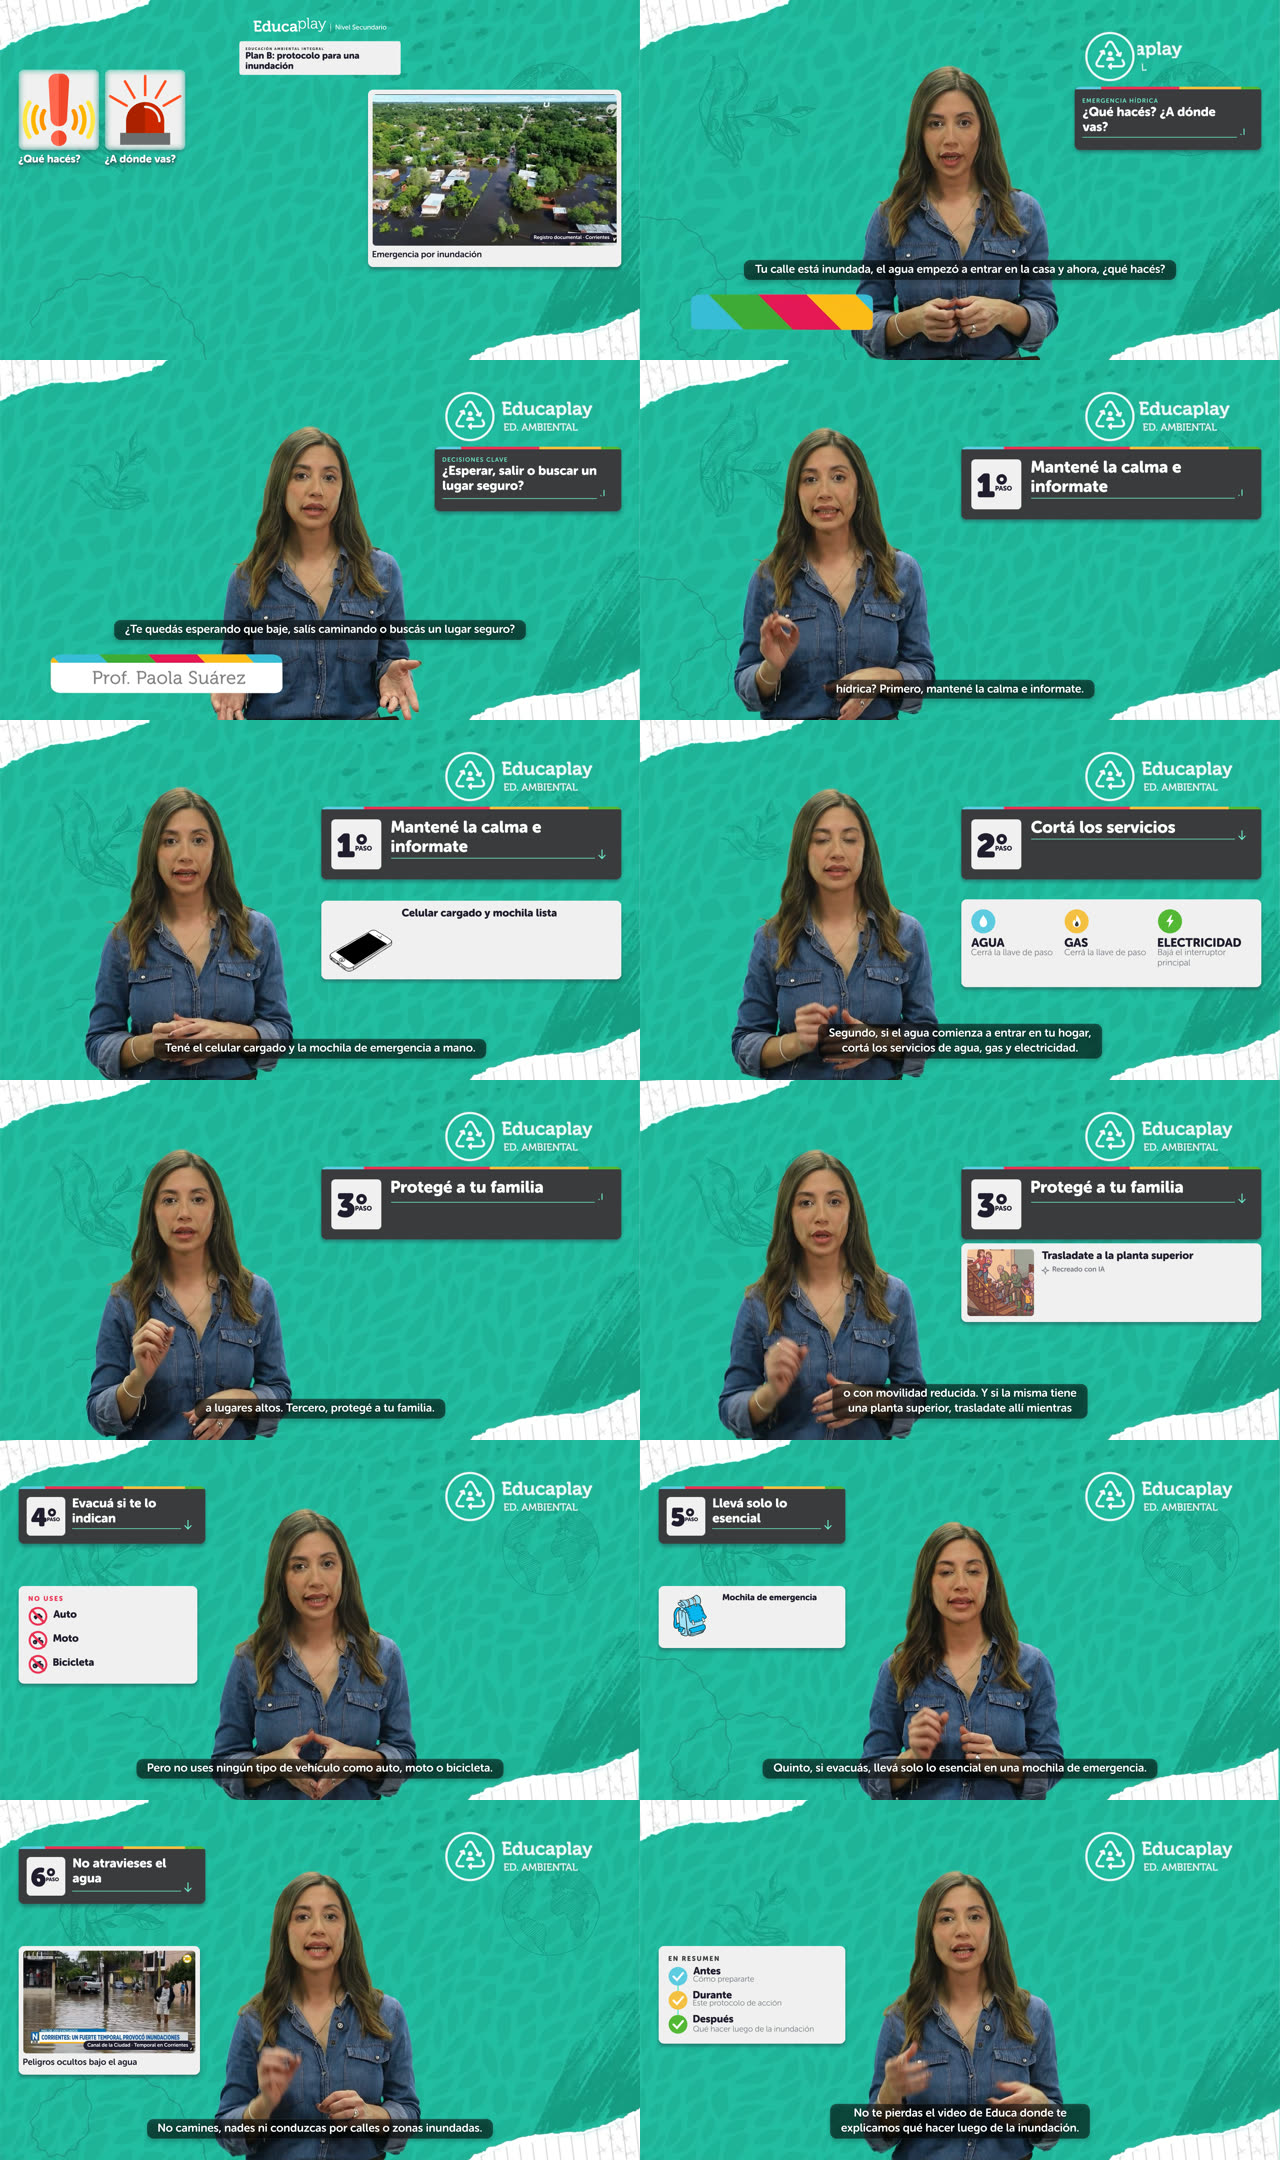
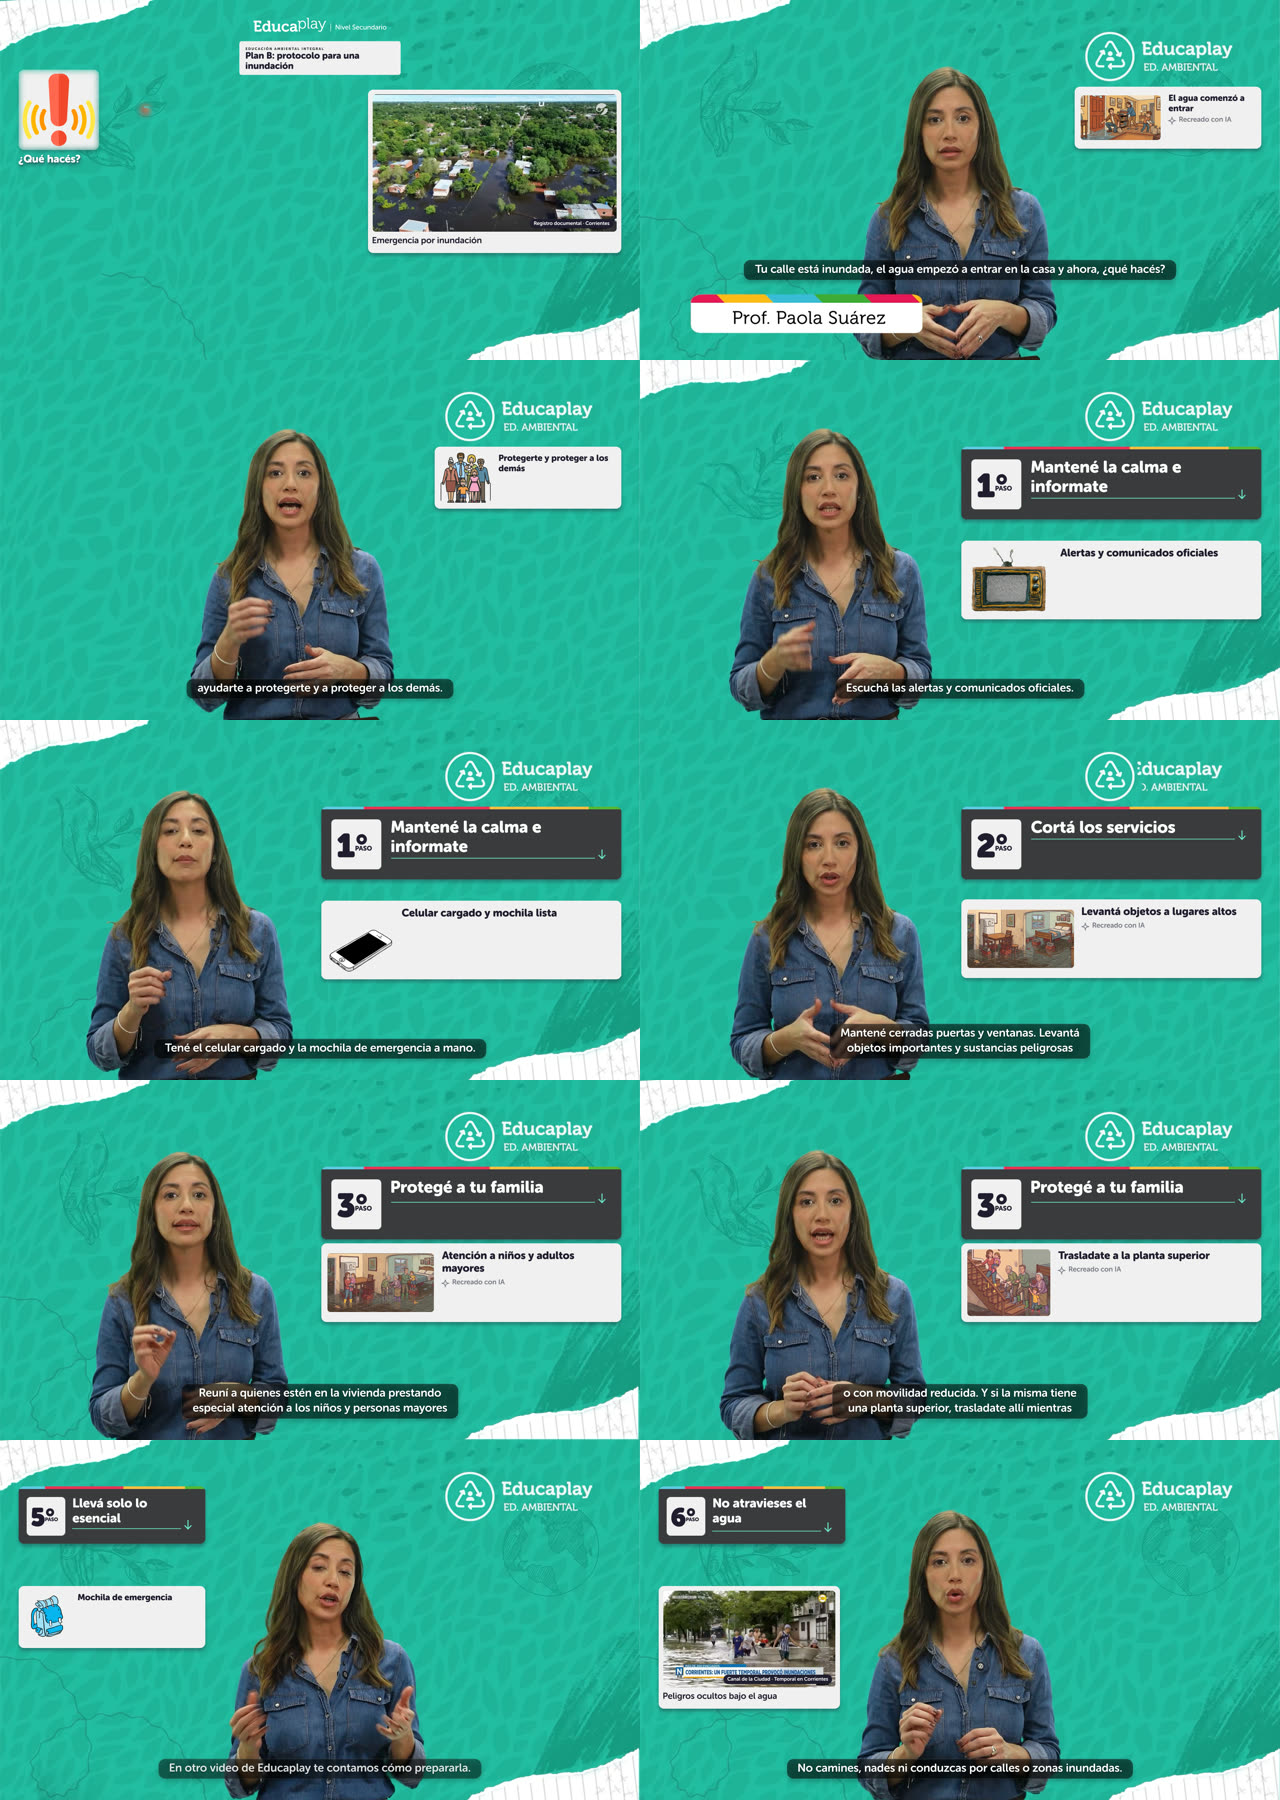
Los recursos no se recortan: la tarjeta toma la proporción de la imagen
Pedido de Isaac: que no se corte la cabeza de nadie ni un detalle relevante.
- fitFrame: el recuadro de cada foto, ilustración o video toma su proporción
  dentro del espacio disponible; entra entero (contain), sin franjas.
- Fila: alto de siempre y hasta 1,6× de ancho para las apaisadas. Recursos grandes:
  hasta 60 % del ancho y el alto de la caja. Tarjeta de medio: centrada, con el alto
  real de la imagen.
- Sin Ken Burns (el zoom se come los bordes). fit: 'cover' sólo si se declara.

diff --git a/ae/build-episode.jsx b/ae/build-episode.jsx
@@ -637,7 +637,25 @@ function buildEpisode() {
   }
 
   /** Medio (foto/video/gif) recortado en un rect redondeado con track matte. */
-  function mediaInCard(comp, rel, x, y, w, h, fit, t0, kenBurns) {
+  /**
+   * Recuadro con la proporción del medio, lo más grande posible dentro de
+   * maxW × maxH. Los recursos NO se recortan (pedido de Isaac, 30/9/2026): no se
+   * corta la cabeza de nadie ni un detalle del borde. La tarjeta se adapta a la
+   * imagen, no la imagen a la tarjeta.
+   */
+  function fitFrame(rel, maxW, maxH) {
+    var item = footage(rel);
+    var k = Math.min(maxW / item.width, maxH / item.height);
+    return {w: Math.round(item.width * k), h: Math.round(item.height * k)};
+  }
+
+  /**
+   * Medio recortado al rect redondeado con un track matte. Por defecto entra
+   * COMPLETO (contain): el que llama ya le da un recuadro con su proporción
+   * (fitFrame). `cover` sólo si el data.ts lo declara a propósito. Sin Ken
+   * Burns: el zoom siempre se come los bordes.
+   */
+  function mediaInCard(comp, rel, x, y, w, h, fit) {
     var item = footage(rel);
     var l = comp.layers.add(item);
     l.name = 'MEDIO · ' + rel.replace('assets/', '');
@@ -649,12 +667,10 @@ function buildEpisode() {
     }
     var cover = Math.max(w / item.width, h / item.height) * 100;
     var contain = Math.min(w / item.width, h / item.height) * 100;
-    var s = fit === 'contain' ? contain : cover;
+    var s = fit === 'cover' ? cover : contain;
     var t = l.property('ADBE Transform Group');
     t.property('ADBE Position').setValue([x + w / 2, y + h / 2]);
-    var kb0 = 1.02, kb1 = 1.08;
-    if (kenBurns) keys(t.property('ADBE Scale'), [t0, comp.duration], [[s * kb0, s * kb0], [s * kb1, s * kb1]]);
-    else t.property('ADBE Scale').setValue([s, s]);
+    t.property('ADBE Scale').setValue([s, s]);
 
     var matte = newShapeLayer(comp, 'MATTE · ' + l.name);
     addRect(matte, x, y, w, h, RADIUS - 6, [1, 1, 1]);
@@ -972,20 +988,19 @@ function buildEpisode() {
     var wide = box.width >= 800;
     var P = 18;
     var w = box.width;
-    // Miniatura cuadrada (la fila de la web) o, con GRANDES, la imagen a ~60 %
-    // del ancho (50 % en la caja angosta, para que el título no quede en una
-    // columna de menos de ~170 px) y todo el alto que da la caja del motor.
-    var TW = wide ? 200 : 150, TH = TW;
+    // Espacio para la imagen: el cuadrado de la fila de la web o, con GRANDES,
+    // ~60 % del ancho (50 % en la caja angosta, para que el título no quede en
+    // una columna de menos de ~170 px) y todo el alto que da la caja del motor.
+    // Dentro de ese espacio la imagen entra ENTERA, con su proporción.
+    // En la fila normal el alto es el de siempre (200/150) y una imagen
+    // apaisada puede ensancharse hasta 1,6 veces ese alto: entera y sin achicarse.
+    var maxH = wide ? 200 : 150, maxW = Math.round(maxH * 1.6);
     if (GRANDES) {
-      TW = Math.round(w * (wide ? 0.6 : 0.5));
-      TH = Math.min(box.height - P * 2, Math.round(TW * 0.8));
+      maxW = Math.round(w * (wide ? 0.6 : 0.5));
+      maxH = box.height - P * 2;
     }
-    var h = TH + P * 2;
-    card(comp, 0, 0, w, h);
-    var thumb = mediaInCard(comp, b.src, P, P, TW, TH, kind === 'gif' ? 'contain' : 'cover', 0, kind === 'photo');
-    // Modo vivo: por partes. Tarjeta, miniatura, título y metadatos.
-    revealMedia(thumb, P, P, TW, TH, sec(4));
-    var tx = P + TW + 24, tw = w - tx - P;
+    var f = b.fit === 'cover' ? {w: maxW, h: maxH} : fitFrame(b.src, maxW, maxH);
+    var tx = P + f.w + 24, tw = w - tx - P;
     var ty = P + 6;
     var tSize = GRANDES ? (wide ? 36 : 28) : (wide ? 32 : 26);
     var tLead = GRANDES ? (wide ? 42 : 33) : (wide ? 38 : 31);
@@ -1005,6 +1020,15 @@ function buildEpisode() {
       fadeIn(mt.layer, mt0, sec(10), 10);
       ty += mt.h + 10;
     }
+    // La fila normal conserva su alto (236 px); la grande mide lo que la imagen
+    // o el texto, lo que sea más alto. La imagen va centrada en vertical.
+    var inner = GRANDES ? Math.max(f.h, ty - P) : maxH;
+    var h = inner + P * 2;
+    var iy = P + Math.round((inner - f.h) / 2);
+    card(comp, 0, 0, w, h);
+    var thumb = mediaInCard(comp, b.src, P, iy, f.w, f.h, b.fit);
+    // Modo vivo: por partes. Tarjeta, imagen, título y metadatos.
+    revealMedia(thumb, P, iy, f.w, f.h, sec(4));
     return Math.max(h, ty + P);
   }
 
@@ -1023,18 +1047,23 @@ function buildEpisode() {
     var inner = 14;
     var mw = w - inner * 2;
     var mx = x + inner;
-    var mh = Math.min(box.height - inner * 2 - capH, Math.round(mw * 0.62));
+    // El medio entra entero: el recuadro toma su proporción dentro del espacio
+    // de la tarjeta y se centra a lo ancho. La tarjeta mide lo que mide él.
+    var maxMh = box.height - inner * 2 - capH;
+    var f = b.fit === 'cover' ? {w: mw, h: Math.min(maxMh, Math.round(mw * 0.62))} : fitFrame(b.src, mw, maxMh);
+    var fx = mx + Math.round((mw - f.w) / 2);
+    var mh = f.h;
     var h = inner + mh + (capText ? capH : inner);
 
     card(comp, x, 0, w, h);
-    revealMedia(mediaInCard(comp, b.src, mx, inner, mw, mh, b.fit || (kind === 'gif' ? 'contain' : 'cover'), 0, kind === 'photo'), mx, inner, mw, mh, sec(4));
+    revealMedia(mediaInCard(comp, b.src, fx, inner, f.w, mh, b.fit), fx, inner, f.w, mh, sec(4));
     if (capText) {
       var cap = text(comp, capText, mx, inner + mh + 16, {
         name: 'PIE', font: FONTS.body, size: 26, color: hex(PAL.ink), maxW: mw,
       });
       revealChars(cap.layer, sec(VIVO ? 14 : 10), sec(14), true);
     }
-    if (b.credit) creditPill(comp, b.credit, mx + mw, inner + mh, sec(VIVO ? 20 : 14));
+    if (b.credit) creditPill(comp, b.credit, fx + f.w, inner + mh, sec(VIVO ? 20 : 14));
     return {h: h, x: x, w: w};
   }
 

diff --git a/docs/ESTETICA.md b/docs/ESTETICA.md
@@ -33,6 +33,12 @@ títulos.
   la numeración de la escaleta ("RECURSO 10", "ANIMACIÓN 7"): es interna y al estudiante no le dice
   nada.
 
+  **Los recursos no se recortan.** El recuadro de la imagen toma la proporción de cada foto,
+  ilustración o video y la muestra entera: no se corta la cabeza de nadie ni un detalle del borde.
+  En la fila, el alto es el de siempre y una imagen apaisada se ensancha hasta 1,6 veces ese alto.
+  No hay Ken Burns (el zoom se come los bordes). `fit: 'cover'` en el `data.ts` recorta a
+  propósito, y sólo se usa si el borde no tiene nada relevante y con el OK del responsable.
+
   **Variante en prueba, «recursos grandes»** (`npm run ae -- <CODE> --recursos grandes`): la misma
   fila, pero la imagen ocupa ~60 % del ancho de la tarjeta (50 % con la docente al centro) y todo el
   alto que da la caja; el título crece a 36 px (28 en la caja angosta). Se compara con

diff --git a/.agents/skills/educaplay-after-effects/SKILL.md b/.agents/skills/educaplay-after-effects/SKILL.md
@@ -95,6 +95,10 @@ aprobado antes del modo vivo. Dos criterios que no están en el código:
 
 **La marca se escribe «Educaplay»** (nunca EducaPlay/EDUCAPLAY). Ver `AGENTS.md`.
 
+**Los recursos no se recortan:** el recuadro toma la proporción de la imagen (`fitFrame`) y la
+muestra entera, sin Ken Burns. Una cabeza cortada o un detalle perdido en el borde es un error, no
+una decisión de encuadre. `fit: 'cover'` sólo con el OK del responsable.
+
 **En pantalla no va la numeración de la escaleta** («RECURSO 10», «ANIMACIÓN 7»): es para el
 equipo. Las filas de recursos llevan título y, si hay, el crédito («Recreado con IA»).
 
